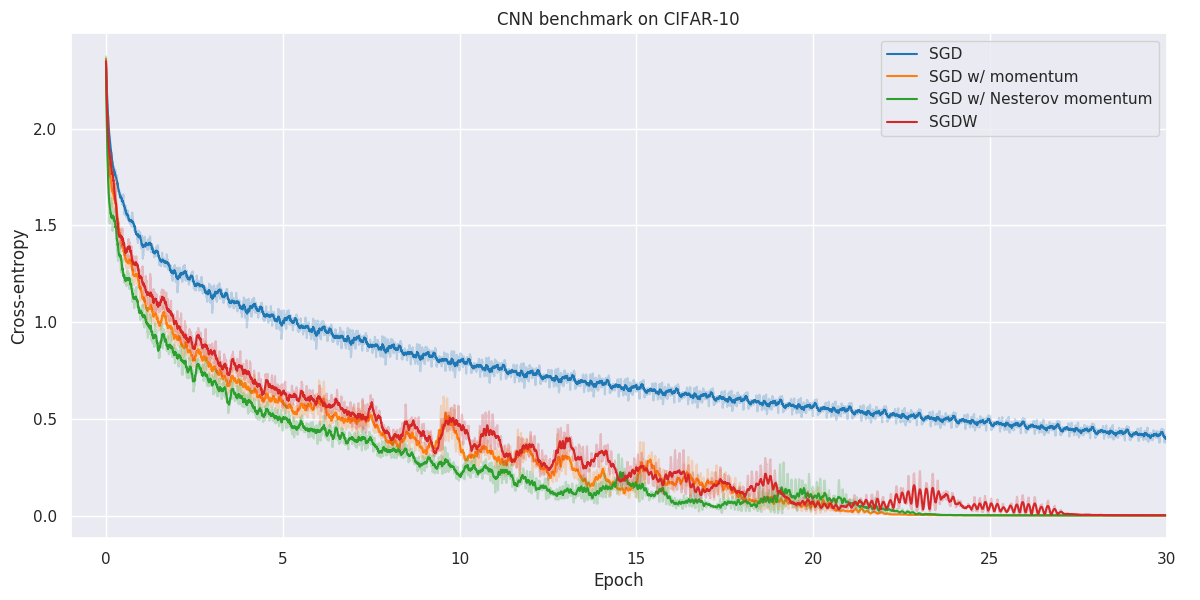
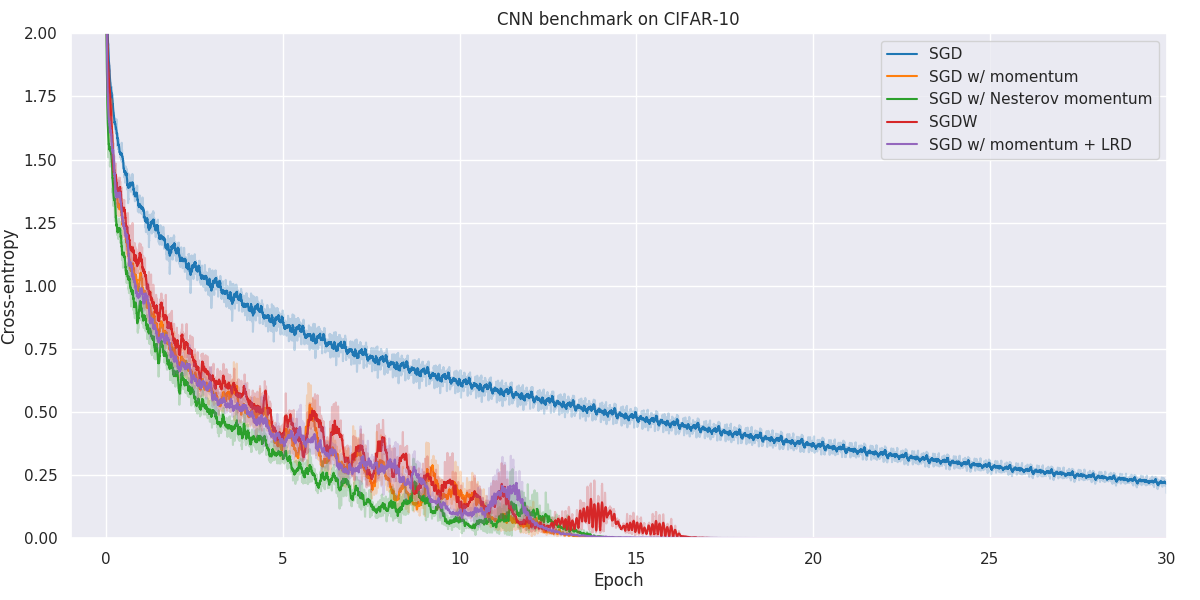
added learning rate decay

diff --git a/optimizers.py b/optimizers.py
@@ -1,11 +1,12 @@
 import torch
 import numpy as np
 from torch.optim import Optimizer
+from torch.distributions import Bernoulli
 
 
 class SGD(Optimizer):
-    def __init__(self, params, lr, mu=0, nesterov=False, weight_decay=0):
-        defaults = {'lr': lr, 'mu': mu, 'nesterov': nesterov, 'weight_decay': weight_decay}
+    def __init__(self, params, lr, mu=0, nesterov=False, weight_decay=0, lrd=1):
+        defaults = {'lr': lr, 'mu': mu, 'nesterov': nesterov, 'weight_decay': weight_decay, 'lrd': lrd}
         super(SGD, self).__init__(params, defaults)
 
     def step(self):
@@ -18,6 +19,7 @@ class SGD(Optimizer):
             mu = group['mu']
             nesterov = group['nesterov']
             weight_decay = group['weight_decay']
+            lrd_bernoulli = Bernoulli(probs=group['lrd'])
 
             if mu != 0 and 'v' not in group:
                 group['v'] = []
@@ -30,7 +32,8 @@ class SGD(Optimizer):
                         group['theta'].append(theta_param)
 
             for idx, param in enumerate(group['params']):
-                param.grad.data += weight_decay * param.data
+                param.grad.data -= weight_decay * param.data
+                lrd_mask = lrd_bernoulli.sample(param.size()).to(param.device)
 
                 if mu != 0:
                     v = group['v'][idx]
@@ -38,20 +41,20 @@ class SGD(Optimizer):
                     group['v'][idx] = v
 
                     if nesterov:
-                        group['theta'][idx] += v
+                        group['theta'][idx] += lrd_mask * v
                         param.data = group['theta'][idx] + mu * v
 
                     else:
-                        param.data += v        
+                        param.data += lrd_mask * v
 
                 else:
-                    param.data -= lr * param.grad.data
+                    param.data -= lrd_mask * lr * param.grad.data
 
 
 class Adam(Optimizer):
-    def __init__(self, params, lr, beta1=0.9, beta2=0.999, nesterov=False, l2_reg=0, weight_decay=0, rectified=False, eps=1e-8):
+    def __init__(self, params, lr, beta1=0.9, beta2=0.999, nesterov=False, l2_reg=0, weight_decay=0, rectified=False, lrd=1, eps=1e-8):
         defaults = {'lr': lr, 'beta1': beta1, 'beta2': beta2, 'nesterov': nesterov, 'l2_reg': l2_reg,
-                    'weight_decay': weight_decay, 'rectified': rectified, 'eps': eps}
+                    'weight_decay': weight_decay, 'rectified': rectified, 'lrd': lrd, 'eps': eps}
         super(Adam, self).__init__(params, defaults)
 
     def step(self):
@@ -67,6 +70,7 @@ class Adam(Optimizer):
             l2_reg = group['l2_reg']
             weight_decay = group['weight_decay']
             rectified = group['rectified']
+            lrd_bernoulli = Bernoulli(probs=group['lrd'])
             eps = group['eps']
 
             if 'm' not in group and 'v' not in group:
@@ -90,6 +94,8 @@ class Adam(Optimizer):
                 else:
                     grad = param.grad.data
 
+                lrd_mask = lrd_bernoulli.sample(param.size()).to(param.device)
+
                 m = group['m'][idx]
                 v = group['v'][idx]
                 t = group['t']
@@ -108,14 +114,14 @@ class Adam(Optimizer):
                         numerator = (1 - beta2**t) * (rho - 4) * (rho - 2) * rho_inf
                         denominator = (rho_inf - 4) * (rho_inf - 2) * rho
                         r = np.sqrt(numerator / denominator)
-                        param.data += - lr * r * m_hat / (torch.sqrt(v) + eps)
+                        param.data += - lrd_mask * lr * r * m_hat / (torch.sqrt(v) + eps)
                     else:
-                        param.data += - lr * m_hat
+                        param.data += - lrd_mask * lr * m_hat
                 else:
-                    param.data += - lr * m_hat / (torch.sqrt(v_hat) + eps)
+                    param.data += - lrd_mask * lr * m_hat / (torch.sqrt(v_hat) + eps)
 
                 if weight_decay:
-                    param.data += - lr * weight_decay * param.data
+                    param.data -= weight_decay * param.data
 
                 group['m'][idx] = m
                 group['v'][idx] = v

diff --git a/misc.py b/misc.py
@@ -35,6 +35,12 @@ optim_dict = {
 			'mu': 0.99,
 			'weight_decay': 1e-6
 		},
+		'sgd_lrd': {
+			'label': 'SGD w/ momentum + LRD',
+			'lr': 1e-3,
+			'mu': 0.99,
+			'lrd': 0.5
+		},
 		'adam': {
 			'label': 'Adam',
 			'lr': 1e-3
@@ -49,6 +55,11 @@ optim_dict = {
 			'lr': 1e-3,
 			'l2_reg': 1e-4
 		},
+		'adam_lrd': {
+			'label': 'Adam w/ LRD',
+			'lr': 1e-3,
+			'lrd': 0.5
+		},
 		'Radam': {
 			'label': 'RAdam',
 			'lr': 1e-3,
@@ -59,6 +70,12 @@ optim_dict = {
 			'lr': 1e-3,
 			'rectified': True,
 			'weight_decay': 1e-4
+		},
+		'Radam_lrd': {
+			'label': 'RAdam w/ LRD',
+			'lr': 1e-3,
+			'rectified': True,
+			'lrd': 0.5
 		},
 		'nadam': {
 			'label': 'Nadam',
@@ -72,7 +89,8 @@ optim_dict = {
 		},
 		'lookahead_sgd': {
 			'label': 'Lookahead (SGD)',
-			'lr': 1e-3
+			'lr': 1e-3,
+			'mu': 0.99
 		},
 		'lookahead_adam': {
 			'label': 'Lookahead (Adam)',

diff --git a/main.py b/main.py
@@ -12,7 +12,7 @@ if __name__ == '__main__':
 	parser = argparse.ArgumentParser()
 	parser.add_argument('-num_epochs', type=int, default=30)
 	parser.add_argument('-dataset', type=str, default='cifar')
-	parser.add_argument('-num_train', type=int, default=5000)
+	parser.add_argument('-num_train', type=int, default=50000)
 	parser.add_argument('-num_val', type=int, default=2048)
 	parser.add_argument('-lr_schedule', type=bool, default=True)
 	parser.add_argument('-only_plot', type=bool, default=False)
@@ -30,13 +30,17 @@ if __name__ == '__main__':
 		'sgd_momentum',
 		'sgd_nesterov',
 		'sgd_weight_decay',
+		'sgd_lrd',
 		'rmsprop',
 		'adam',
 		'adam_l2',
 		'adamW',
+		'adam_lrd',
 		'Radam',
 		'RadamW',
+		'Radam_lrd',
 		'nadam',
+		'lookahead_sgd',
 		'lookahead_adam'
 	]
 	opt_losses, opt_val_losses, opt_labels = [], [], []
